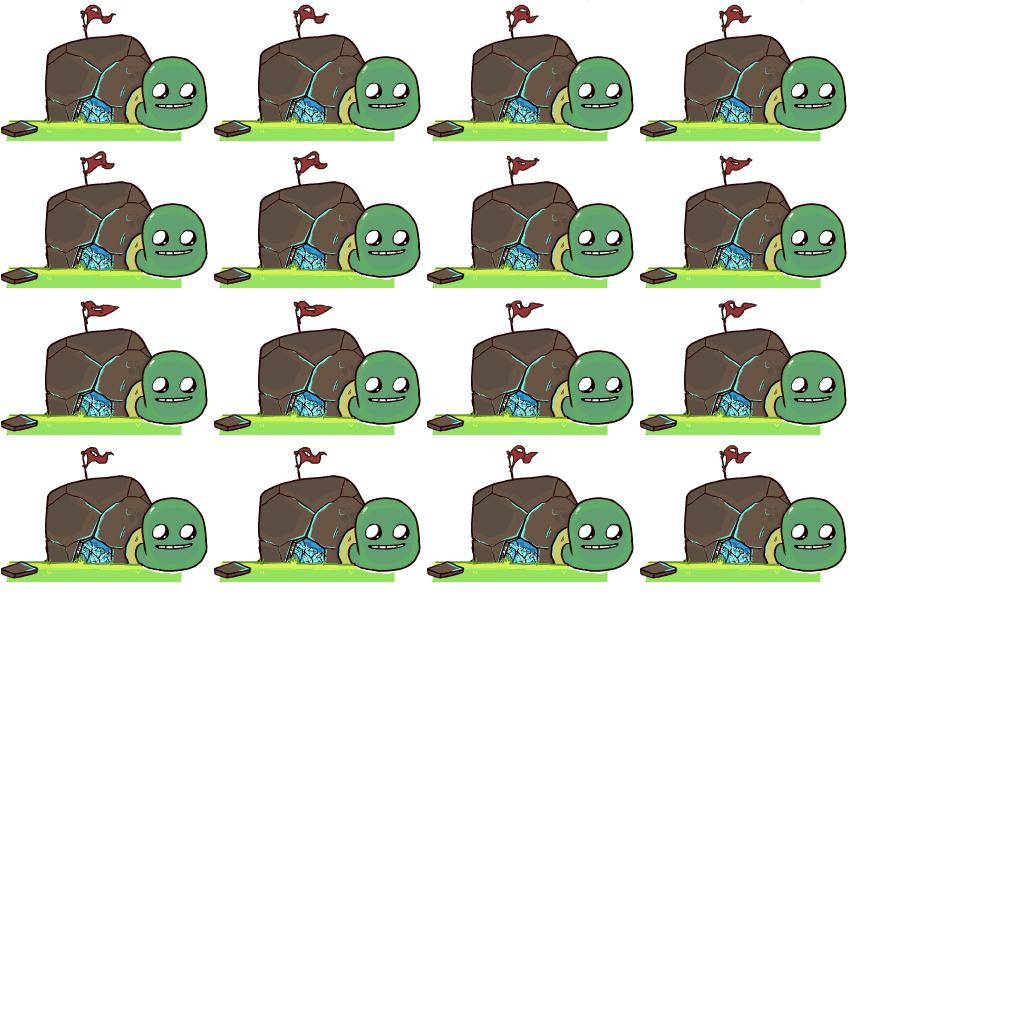
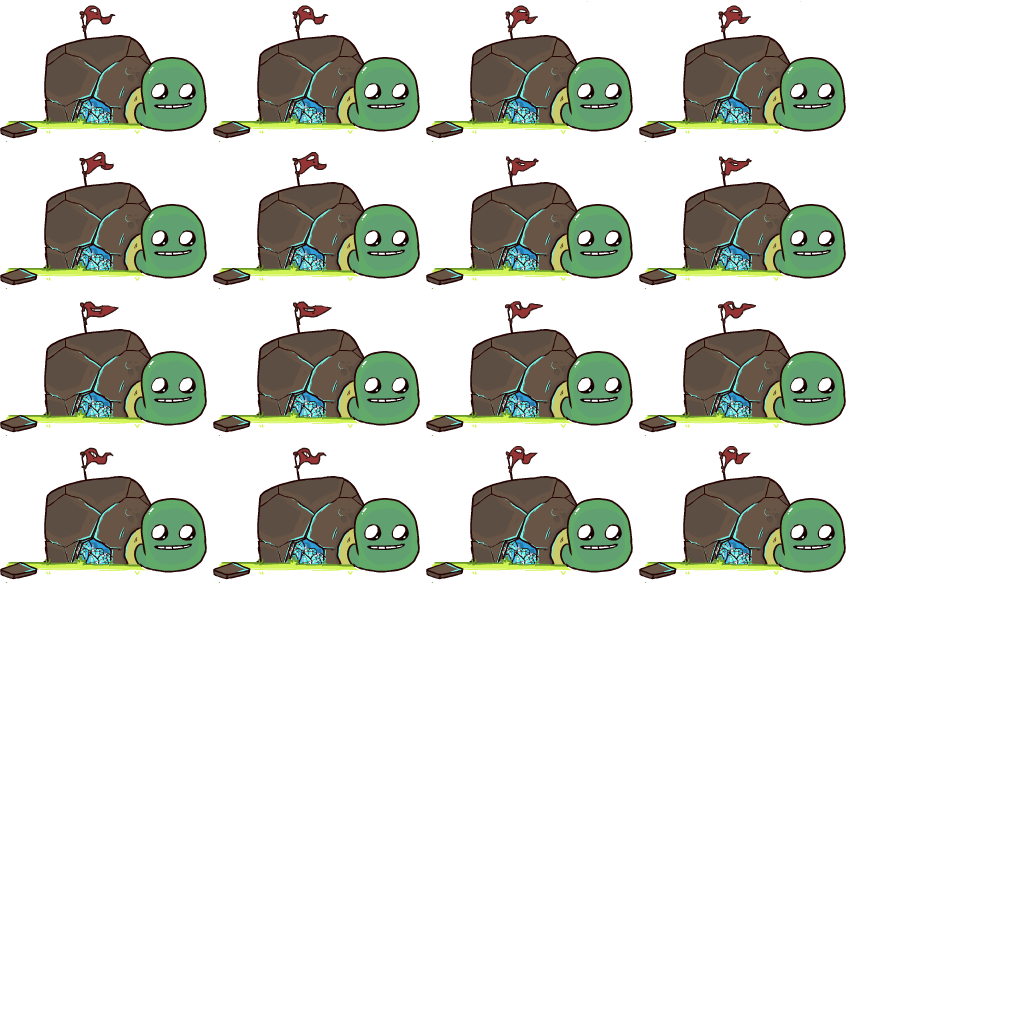
no message

diff --git a/img/Turtle/TurtleModeratlyHappy.js b/img/Turtle/TurtleModeratlyHappy.js
@@ -2,7 +2,7 @@
 HappyTurtle_instance_1 = function() {
 	this.initialize();
 }
-HappyTurtle_instance_1._SpriteSheet = new createjs.SpriteSheet({images: ["TurtleModeratlyHappy.png"], frames: [[0,0,208,142,2,103.15,141],[213,0,208,142,2,103.15,141],[426,0,208,142,2,103.15,141],[639,0,208,142,2,103.15,141],[0,147,208,142,2,103.15,141],[213,147,208,142,2,103.15,141],[426,147,208,142,2,103.15,141],[639,147,208,142,2,103.15,141],[0,294,208,142,2,103.15,141],[213,294,208,142,2,103.15,141],[426,294,208,142,2,103.15,141],[639,294,208,142,2,103.15,141],[0,441,208,142,2,103.15,141],[213,441,208,142,2,103.15,141],[426,441,208,142,2,103.15,141],[639,441,208,142,2,103.15,141]]});
+HappyTurtle_instance_1._SpriteSheet = new createjs.SpriteSheet({images: ["TurtleModeratlyHappy.png"], frames: [[0,0,208,142,2,93.9,138.35],[213,0,208,142,2,93.9,138.35],[426,0,208,142,2,93.9,138.35],[639,0,208,142,2,93.9,138.35],[0,147,208,142,2,93.9,138.35],[213,147,208,142,2,93.9,138.35],[426,147,208,142,2,93.9,138.35],[639,147,208,142,2,93.9,138.35],[0,294,208,142,2,93.9,138.35],[213,294,208,142,2,93.9,138.35],[426,294,208,142,2,93.9,138.35],[639,294,208,142,2,93.9,138.35],[0,441,208,142,2,93.9,138.35],[213,441,208,142,2,93.9,138.35],[426,441,208,142,2,93.9,138.35],[639,441,208,142,2,93.9,138.35]]});
 var HappyTurtle_instance_1_p = HappyTurtle_instance_1.prototype = new createjs.BitmapAnimation();
 HappyTurtle_instance_1_p.BitmapAnimation_initialize = HappyTurtle_instance_1_p.initialize;
 HappyTurtle_instance_1_p.initialize = function() {

diff --git a/js/GJ.js b/js/GJ.js
@@ -104,7 +104,7 @@ var GJ = (function () {
 
 		actors = [];
 // actors.push(new Actor(GJ.ActorTypes.GROUND_NORMAL, 800, startY + 0));		
-actors.push(new Actor(GJ.ActorTypes.GROUND_EXPLODING, 800, startY + 0));	
+// actors.push(new Actor(GJ.ActorTypes.GROUND_EXPLODING, 800, startY + 0));	
 // actors.push(new Actor(GJ.ActorTypes.FLYING_NORMAL, 800, balloonHeightHigh));
 // actors.push(new Actor(GJ.ActorTypes.FLYING_NORMAL, 900, balloonHeightLow));
 
@@ -407,9 +407,15 @@ actors.push(new Actor(GJ.ActorTypes.GROUND_EXPLODING, 800, startY + 0));
 
 
 
+
+
+
 			// REMOVE THIS// REMOVE THIS// REMOVE THIS// REMOVE THIS// REMOVE THIS// REMOVE THIS// REMOVE THIS// REMOVE THIS// REMOVE THIS// REMOVE THIS// REMOVE THIS// REMOVE THIS
 			// waveTimer = 350;
 			// waveCounter = 1;
+
+
+
 
 
 

diff --git a/js/Actor.js b/js/Actor.js
@@ -12,6 +12,13 @@ var Actor = function (type, x, y) {
 	this.hasGem = false;
 	this.isOnGround = false;
 
+
+	this.goalOffset = 0;
+
+	if (y == 250) {
+		this.goalOffset = 150;
+	}
+
 	if (this.type !== GJ.ActorTypes.TURTLE) {
 		data = new createjs.SpriteSheet({
 			framerate: 25,
@@ -236,7 +243,7 @@ Actor.prototype.doAI = function () {
 			}
 		}
 
-		if (this.image.x <= GJ.getCurrentWorld().getGoalX()) {			
+		if (this.image.x <= GJ.getCurrentWorld().getGoalX() - this.goalOffset) {			
 
 			if (this.type === GJ.ActorTypes.FLYING_NORMAL) {
 				this.useGravity = true;
